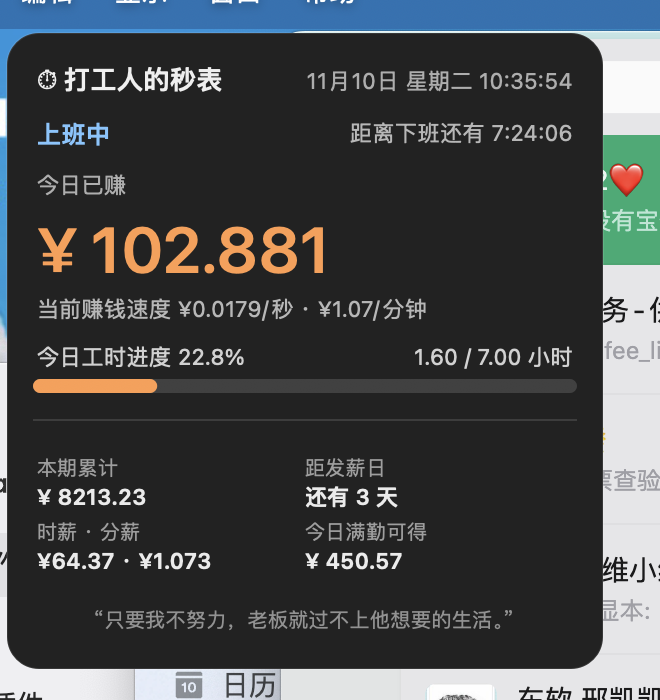
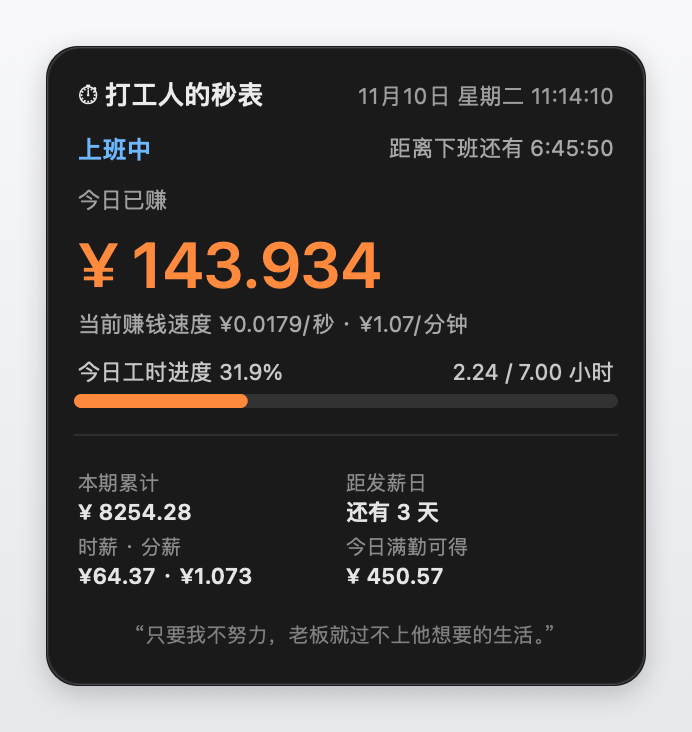
截图改为纯卡片（窗口级捕获 + 主题自适应）
- 用 screencapture -l 按窗口捕获，去掉桌面/网页等杂乱背景
- 卡片本体半透明，合成时补底色并叠绘，避免在白底页面发灰
- 同时提供浅色/深色两版，README 用 picture 按系统主题切换

diff --git a/README.md b/README.md
@@ -6,7 +6,10 @@ macOS 桌面悬浮窗小工具：把你的工资**按秒可视化**。
 
 > 灵感来自 Windows 开源项目「牛马脱敏器」，界面与交互为 macOS 原生重写（Swift + AppKit），代码独立。
 
-![截图](assets/screenshot.png)
+<picture>
+  <source media="(prefers-color-scheme: dark)" srcset="assets/screenshot-dark.png">
+  <img src="assets/screenshot.png" alt="打工人的秒表 · 桌面悬浮卡片" width="360">
+</picture>
 
 ## 功能
 
